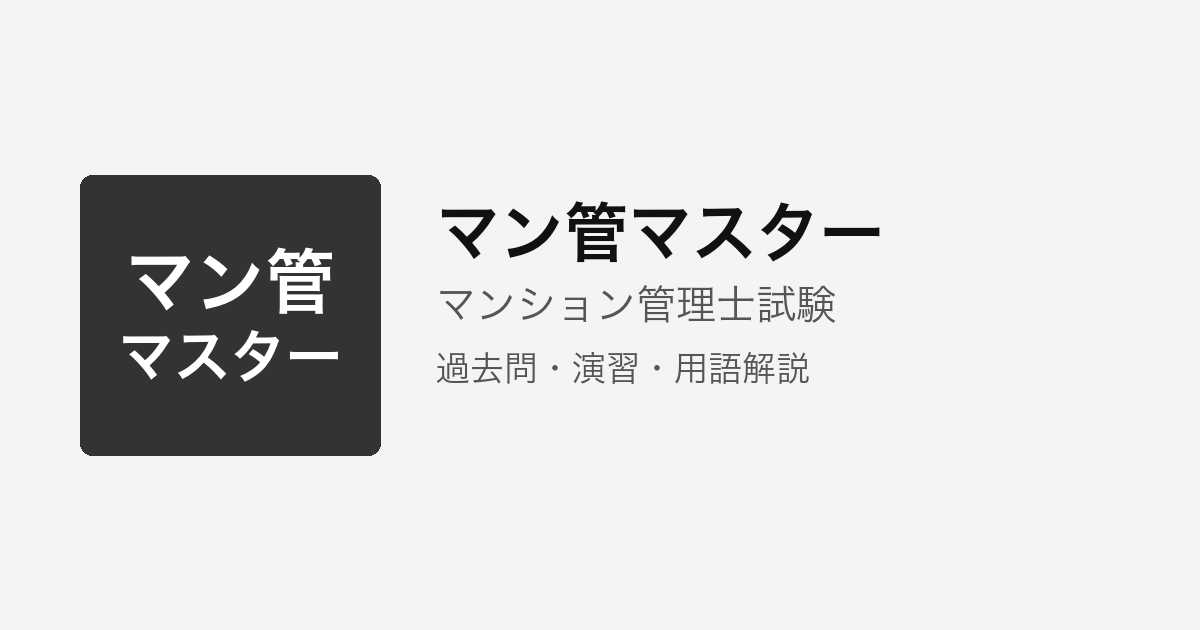
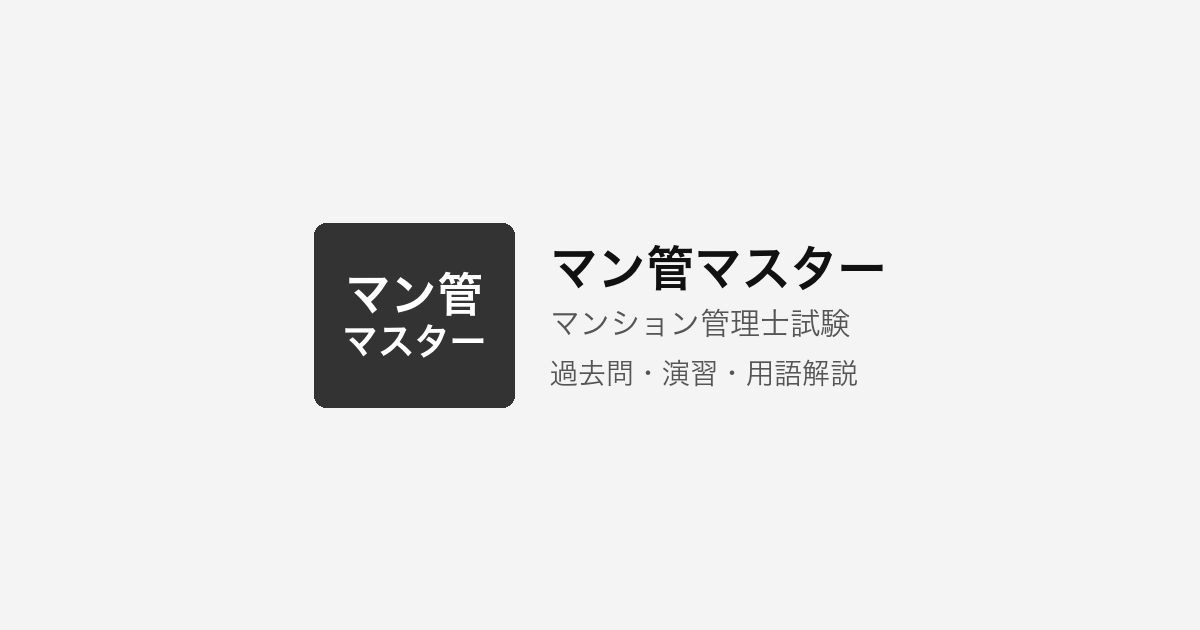
fix: OGP 画像の見切れを修正（中央安全域レイアウト）
SNS プレビューの 1:1 クロップでもロゴが切れないよう再生成した。

Changed region(s): [[0.0617, 0.2714, 0.74, 0.7238]]

diff --git a/tools/brand_assets.py b/tools/brand_assets.py
@@ -18,10 +18,38 @@ from tools.site_config import (
     theme,
 )
 
-FONT_BOLD = "/System/Library/Fonts/ヒラギノ角ゴシック W6.ttc"
-FONT_REG = "/System/Library/Fonts/ヒラギノ角ゴシック W3.ttc"
 BRAND_DIR = "assets/brand"
 MARKER = "<!--BRAND_ASSET_HEAD-->"
+OG_WIDTH = 1200
+OG_HEIGHT = 630
+# SNS の 1:1 中央クロップ（630×630）でも切れないよう、コンテンツ幅をこの範囲に収める
+OG_SAFE_WIDTH = 620
+
+
+def _font_candidates(*, bold: bool) -> list[Path]:
+    if bold:
+        return [
+            Path("/System/Library/Fonts/ヒラギノ角ゴシック W6.ttc"),
+            Path("/usr/share/fonts/opentype/noto/NotoSansCJK-Bold.ttc"),
+            Path("/usr/share/fonts/truetype/noto/NotoSansCJK-Bold.ttc"),
+            Path("/usr/share/fonts/truetype/dejavu/DejaVuSans-Bold.ttf"),
+            Path("/usr/share/fonts/truetype/liberation/LiberationSans-Bold.ttf"),
+        ]
+    return [
+        Path("/System/Library/Fonts/ヒラギノ角ゴシック W3.ttc"),
+        Path("/usr/share/fonts/opentype/noto/NotoSansCJK-Regular.ttc"),
+        Path("/usr/share/fonts/truetype/noto/NotoSansCJK-Regular.ttc"),
+        Path("/usr/share/fonts/truetype/dejavu/DejaVuSans.ttf"),
+        Path("/usr/share/fonts/truetype/liberation/LiberationSans-Regular.ttf"),
+    ]
+
+
+def _resolve_font_path(*, bold: bool) -> str:
+    for path in _font_candidates(bold=bold):
+        if path.is_file():
+            return str(path)
+    kind = "bold" if bold else "regular"
+    raise FileNotFoundError(f"No {kind} font found for brand asset generation")
 
 
 def theme_ink() -> str:
@@ -57,7 +85,7 @@ def assets_ready(site_root: Path | None = None) -> bool:
 def _fit_font(draw, text: str, max_w: int, start_size: int, *, bold: bool = True):
     from PIL import ImageFont
 
-    path = FONT_BOLD if bold else FONT_REG
+    path = _resolve_font_path(bold=bold)
     size = start_size
     while size >= 6:
         font = ImageFont.truetype(path, size, index=0)
@@ -148,42 +176,130 @@ def render_favicon(size: int):
 def render_og_image():
     from PIL import Image, ImageDraw
 
-    w, h = 1200, 630
+    w, h = OG_WIDTH, OG_HEIGHT
     top, bottom = brand_logo_lines()
     name = brand_name()
     exam = exam_name()
+    tagline = "過去問・演習・用語解説"
     bg = theme_page_bg()
     ink = theme_ink()
-    text = theme_text()
+    text_col = theme_text()
     muted = theme_text_muted()
+
+    measure = Image.new("RGB", (w, h), bg)
+    mdraw = ImageDraw.Draw(measure)
+
+    gap = 36
+    name_gap, exam_gap = 16, 22
+    layout = None
+    for box_w in (200, 180, 160, 140, 120):
+        box_h = max(110, int(box_w * 0.92))
+        text_max_w = OG_SAFE_WIDTH - box_w - gap
+        name_font, name_size = _fit_font(mdraw, name, text_max_w, 48, bold=True)
+        exam_font, exam_size = _fit_font(mdraw, exam, text_max_w, 30, bold=False)
+        tag_font, tag_size = _fit_font(mdraw, tagline, text_max_w, 28, bold=False)
+        text_w = max(
+            mdraw.textlength(name, font=name_font),
+            mdraw.textlength(exam, font=exam_font),
+            mdraw.textlength(tagline, font=tag_font),
+        )
+        text_h = name_size + name_gap + exam_size + exam_gap + tag_size
+        content_w = box_w + gap + int(text_w)
+        content_h = max(box_h, text_h)
+        if content_w <= OG_SAFE_WIDTH:
+            layout = {
+                "box_w": box_w,
+                "box_h": box_h,
+                "gap": gap,
+                "name_font": name_font,
+                "name_size": name_size,
+                "exam_font": exam_font,
+                "exam_size": exam_size,
+                "tag_font": tag_font,
+                "tag_size": tag_size,
+                "text_h": text_h,
+                "content_w": content_w,
+                "content_h": content_h,
+            }
+            break
 
     img = Image.new("RGB", (w, h), bg)
     draw = ImageDraw.Draw(img)
 
-    box_w, box_h = 300, 280
-    box_x, box_y = 80, (h - box_h) // 2
+    if layout is None:
+        # 横並びが収まらない場合: ロゴ＋テキストを縦積みで中央配置
+        mark_w, mark_h = 220, 200
+        text_max_w = OG_SAFE_WIDTH - 40
+        name_font, name_size = _fit_font(mdraw, name, text_max_w, 44, bold=True)
+        exam_font, exam_size = _fit_font(mdraw, exam, text_max_w, 28, bold=False)
+        tag_font, tag_size = _fit_font(mdraw, tagline, text_max_w, 26, bold=False)
+        stack_gap, line_gap = 28, 14
+        content_w = int(
+            max(
+                mark_w,
+                mdraw.textlength(name, font=name_font),
+                mdraw.textlength(exam, font=exam_font),
+                mdraw.textlength(tagline, font=tag_font),
+            )
+        )
+        content_h = mark_h + stack_gap + name_size + line_gap + exam_size + line_gap + tag_size
+        block_x = (w - content_w) // 2
+        block_y = (h - content_h) // 2
+        _draw_logo_mark(
+            draw,
+            x=block_x + (content_w - mark_w) // 2,
+            y=block_y,
+            width=mark_w,
+            height=mark_h,
+            top=top,
+            bottom=bottom,
+            bg=ink,
+            fg="#ffffff",
+            radius=12,
+        )
+        ty = block_y + mark_h + stack_gap
+        draw.text((block_x + (content_w - mdraw.textlength(name, font=name_font)) / 2, ty), name, fill=text_col, font=name_font)
+        ty += name_size + line_gap
+        draw.text((block_x + (content_w - mdraw.textlength(exam, font=exam_font)) / 2, ty), exam, fill=muted, font=exam_font)
+        ty += exam_size + line_gap
+        draw.text((block_x + (content_w - mdraw.textlength(tagline, font=tag_font)) / 2, ty), tagline, fill=muted, font=tag_font)
+        return img
+
+    block_x = (w - layout["content_w"]) // 2
+    block_y = (h - layout["content_h"]) // 2
+    box_x = block_x
+    box_y = block_y + (layout["content_h"] - layout["box_h"]) // 2
+    tx = block_x + layout["box_w"] + layout["gap"]
+    ty = block_y + (layout["content_h"] - layout["text_h"]) // 2
+
     _draw_logo_mark(
         draw,
         x=box_x,
         y=box_y,
-        width=box_w,
-        height=box_h,
+        width=layout["box_w"],
+        height=layout["box_h"],
         top=top,
         bottom=bottom,
         bg=ink,
         fg="#ffffff",
         radius=12,
     )
-
-    tx = box_x + box_w + 56
-    name_font, name_size = _fit_font(draw, name, w - tx - 80, 64, bold=True)
-    exam_font, exam_size = _fit_font(draw, exam, w - tx - 80, 40, bold=False)
-    tagline = "過去問・演習・用語解説"
-    tag_font, _ = _fit_font(draw, tagline, w - tx - 80, 34, bold=False)
-
-    draw.text((tx, box_y + 24), name, fill=text, font=name_font)
-    draw.text((tx, box_y + 24 + name_size + 20), exam, fill=muted, font=exam_font)
-    draw.text((tx, box_y + 24 + name_size + 20 + exam_size + 28), tagline, fill=muted, font=tag_font)
+    draw.text((tx, ty), name, fill=text_col, font=layout["name_font"])
+    draw.text(
+        (tx, ty + layout["name_size"] + name_gap),
+        exam,
+        fill=muted,
+        font=layout["exam_font"],
+    )
+    draw.text(
+        (
+            tx,
+            ty + layout["name_size"] + name_gap + layout["exam_size"] + exam_gap,
+        ),
+        tagline,
+        fill=muted,
+        font=layout["tag_font"],
+    )
     return img
 
 

diff --git a/tools/generate_brand_assets.py b/tools/generate_brand_assets.py
@@ -12,17 +12,23 @@ SHELL = Path(__file__).resolve().parents[1]
 if str(SHELL) not in sys.path:
     sys.path.insert(0, str(SHELL))
 
-from tools.brand_assets import write_brand_assets  # noqa: E402
+from tools.brand_assets import assets_ready, write_brand_assets  # noqa: E402
 
 
 def main() -> int:
     parser = argparse.ArgumentParser(description="ファビコン・OGP 画像を生成")
     parser.add_argument("--target", type=Path, default=Path.cwd(), help="サイトルート")
+    parser.add_argument("--force", action="store_true", help="既存 PNG があっても再生成する")
     args = parser.parse_args()
     target = args.target.resolve()
     if not (target / "site-config.json").is_file():
         print(f"site-config.json not found: {target}", file=sys.stderr)
         return 1
+    if assets_ready(target) and not args.force:
+        out = target / "assets" / "brand"
+        files = sorted(p.name for p in out.iterdir() if p.is_file())
+        print(f"Brand assets already exist in {out}: {', '.join(files)}; skip")
+        return 0
     out = write_brand_assets(target)
     files = sorted(p.name for p in out.iterdir() if p.is_file())
     print(f"Wrote {len(files)} files to {out}: {', '.join(files)}")
